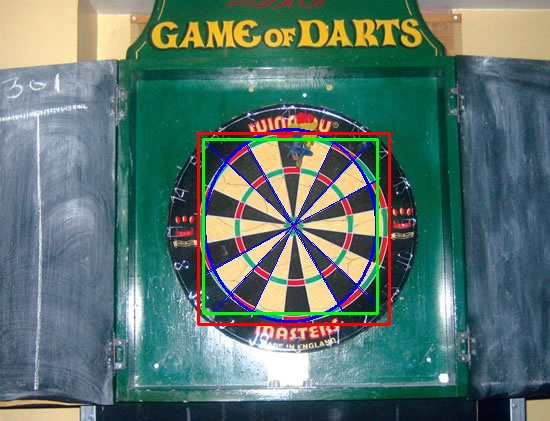
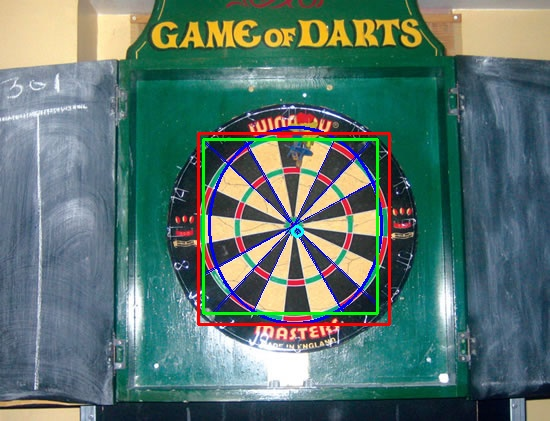
predict centre point of a dartboard

Changed region(s): [[0.3709, 0.2779, 0.7109, 0.772], [0.5255, 0.5249, 0.5564, 0.5867]]

diff --git a/framework.py b/framework.py
@@ -48,6 +48,21 @@ if args.sf < 1.1:
 if args.mn < 1:
     parser.error("Minimum MN is 1")
 
+def line_intersection(line1, line2):
+    xdiff = (line1[0,0] - line1[1,0], line2[0,0] - line2[1,0])
+    ydiff = (line1[0,1] - line1[1,1], line2[0,1] - line2[1,1])
+
+    def det(a, b):
+        return a[0] * b[1] - a[1] * b[0]
+
+    div = det(xdiff, ydiff)
+    if div == 0:
+       return None
+
+    d = (det(*line1), det(*line2))
+    x = det(d, xdiff) / div
+    y = det(d, ydiff) / div
+    return (int(x), int(y))
 
 #detects image and returns array called 'faces' with subarrays containg x, y, width and height of all boxes around detected faces.
 def detect(image, scaleFactor=1.2, minNeighbors=1.7):
@@ -72,12 +87,24 @@ def detect(image, scaleFactor=1.2, minNeighbors=1.7):
         roi = img[y:y+h, x:x+w]
         edges = cv.Canny(image=roi, threshold1 = 100, threshold2 = 500 )
         lines = hough_lines(image=edges)
+        intersections = []
         if(len(lines) > 0):
-            for line in lines:
+            for i, line in enumerate(lines):
                 x1, y1 = line[0]
                 x2, y2 = line[1]
                 p1, p2 = (x1+x, y1+y), (x2+x, y2+y)
                 cv.line(output, p1, p2, (255, 0, 0), 1)
+                for j, line2 in enumerate(lines):
+                    if i != j:
+                        p = line_intersection(line, line2)
+                        if p != None:
+                            intersections.append(p)
+        
+        if(len(intersections)>0):
+            intersections = np.asarray(intersections)
+            meanx = np.mean(intersections[:, 0])
+            meany = np.mean(intersections[:, 1])
+            cv.circle(output, (int(np.round(meanx))+x, int(np.round(meany))+y), 5, (255, 255, 0), 2)
 
         edges = cv.Canny(image=roi, threshold1=100, threshold2=1000)
         cv.imwrite('edges.jpg', edges)
@@ -121,6 +148,8 @@ def benchmark (scaleFactor=1.2, minNeighbors=7):
         tp, fp, fn, p, r, f1 =  detect(k, scaleFactor, minNeighbors)
         P.append(p)
         R.append(r)
+        print(k, ": TPs=", tp, ", FPs=", fp, ", FNs=", fn, ", Precision=", p, ", Recall=", r, "and F1=", f1)
+
     AP = np.mean(P)
     AR = np.mean(R)
     AF1 = 2 * ((AP*AR)/ (AP + AR))

diff --git a/hough.py b/hough.py
@@ -69,7 +69,7 @@ def hough_lines(image, threshold=70):
                 lines.append([p1, p2])
     return np.asarray(lines)
 
-def hough_ellipse(edges, leastVotes = 50, leastDistance = 40, min_b = 40, min_a = 40):
+def hough_ellipse(edges, leastVotes = 10, leastDistance = 40, min_b = 40, min_a = 40):
     detected = []
     detectedvotes=[]
     height = edges.shape[0]
@@ -141,7 +141,7 @@ def hough_ellipse(edges, leastVotes = 50, leastDistance = 40, min_b = 40, min_a 
         detected = np.asarray(detected)
         if len(detected) > 0:
             finalDetected = detected[np.argwhere(detectedvotes == np.amax(detectedvotes)).flatten()]
-            print(finalDetected)
+            # print(finalDetected)
             return finalDetected
         else:
             return []
